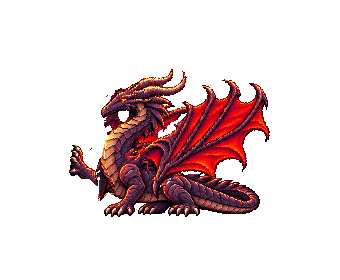
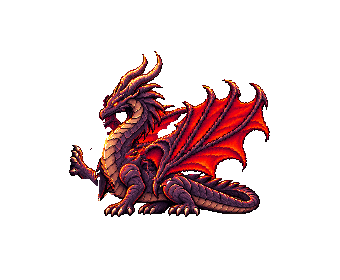
WIP: T213 R1 刚性头＋口腔楔形，4_0/13_0 样稿
病根：头颈链分界横穿脸部，头一相对脖子转脸就折成钩。加 head_cut／_head_rigid、mouth 楔形层；
未改的帧烘焙逐像素不变。其余 7 帧等 Kyo 看样。

执行者: cc
核查: 待审查

Changed region(s): [[0.2941, 0.1714, 0.5588, 0.4857]]

diff --git a/03_再刷重制_Godot/07_开发环境/美术工具/mira_rig/bake.py b/03_再刷重制_Godot/07_开发环境/美术工具/mira_rig/bake.py
@@ -99,13 +99,16 @@ def world(R, pose):
     for n in B: get(n)
     out = {n: full[n] for n in B}
     out['_local'] = {n: mat(pose.get(n, {}).get('rot', 0), B[n]['pivot']) for n in B}  # 只含本骨骼自身转角
+    out['_cut'] = R.get('head_cut') if pose.get('_head_rigid') else None  # T213 R1：整颗头刚性挂 head 骨
     return out
 
 def smooth(t):
     t = np.clip(t, 0, 1); return t * t * (3 - 2 * t)
 
-def weights(layer, px, py):
-    """返回 {bone: 权重数组}，px/py 为原图连续坐标。"""
+def weights(layer, px, py, cut=None):
+    """返回 {bone: 权重数组}，px/py 为原图连续坐标。
+    cut（rig.json 的 head_cut，姿势写 _head_rigid 才启用）：切线以上整颗头（吻、下颚、腮、角）权重全给 head，
+    切线以下 blend 像素内渐变回链式权重。原链式权重的分界横穿脸部（吻部一半挂 n3），头一相对脖子转，脸就被折成钩。"""
     kind = layer['skin']
     if kind == 'rigid':
         return {layer['bone']: np.ones_like(px)}
@@ -133,11 +136,19 @@ def weights(layer, px, py):
             lo = S[k - 1] if k >= 1 else np.ones(px.shape)
             hi = S[k] if k < len(S) else np.zeros(px.shape)
             W[bones[k]] = W.get(bones[k], 0) + lo - hi
+        if cut and 'head' in W:
+            xs, ys = np.array(cut['line'], float).T
+            yb = np.interp(px, xs, ys)
+            s = smooth((yb + cut['blend'] - py) / cut['blend'])
+            wh = np.maximum(W['head'], s); rest = 1 - W['head']
+            f = np.where(rest > 1e-9, (1 - wh) / np.where(rest > 1e-9, rest, 1), 0)
+            for k in W:
+                W[k] = wh if k == 'head' else W[k] * f
         return W
     raise ValueError(kind)
 
 def forward(layer, Mw, px, py):
-    W = weights(layer, px, py)
+    W = weights(layer, px, py, Mw.get('_cut'))
     if layer.get('local'):  # 先绕自身铰点转（如下颚开合），再按 rest 位置的链式权重跟脖子/头走，和头部像素严丝合缝
         Lm = Mw['_local'][layer['local']]
         px, py = Lm[0, 0] * px + Lm[0, 1] * py + Lm[0, 2], Lm[1, 0] * px + Lm[1, 1] * py + Lm[1, 2]
@@ -242,16 +253,42 @@ def fx_overlay(R, pose, shape):
         out[Y[ok], X[ok]] = im[ys[ok], xs[ok]]
     return out
 
+def mouth_wedge(R, wg, jaw_rot, shape):
+    """口腔：上颚线 tip→hinge 与「下颚上沿绕铰点转 jaw_rot 后」围成的楔形（rest 坐标）。
+    按到上颚线的距离分层（色取自 1_0），上獠牙从上颚线往下长。原做法是把下颚原位整块补红，
+    张开后像一块红砖、外缘还描黑框（Kyo R1 4_0 头部异常之一）。"""
+    h, w = shape[:2]; a = np.zeros(shape, np.uint8)
+    (ux, uy), (hx, hy) = wg['upper']; lx, ly = wg['lower_tip']
+    M = mat(jaw_rot, R['bones']['jaw']['pivot']); Lx, Ly = (M @ np.array([lx, ly, 1.0]))[:2]
+    tri = [(ux, uy), (hx, hy), (Lx, Ly)]
+    m = Image.new('L', (w, h), 0); ImageDraw.Draw(m).polygon(tri, fill=1); m = np.array(m) > 0
+    L2 = math.hypot(hx - ux, hy - uy); nx, ny = -(hy - uy) / L2, (hx - ux) / L2
+    if ny < 0: nx, ny = -nx, -ny
+    fang = {fx: fl for fx, fl in wg.get('fangs', [])}
+    for y, x in zip(*np.nonzero(m)):
+        d = max((x + 0.5 - ux) * nx + (y + 0.5 - uy) * ny, 0)
+        if x in fang and d < fang[x]: c = wg['teeth']
+        else: band = wg['bands']; c = band[min(int(d / wg.get('band_w', 2)), len(band) - 1)]
+        a[y, x] = list(c) + [255]
+    return a
+
 def bake(R, src, pose, fills=None):
     L = label_map(R, src); Mw = world(R, pose)
     out = np.zeros_like(src)
     for layer in R['layers']:
+        if 'wedge' in layer:  # 口腔楔形（T213 R1）：只在下颚张开时画，画在头颈链底下
+            if not pose.get(layer['when'], {}).get('rot'): continue
+            a = mouth_wedge(R, layer['wedge'], pose[layer['when']]['rot'], src.shape)
+            out = comp(out, render_layer(layer, upscale(a), Mw, src.shape)); continue
         if 'pixels' in layer:  # 补画小件（如下牙）：只在 when 骨骼转动时画，rest 姿势不出现
             if not pose.get(layer['when'], {}).get('rot'): continue
             a = np.zeros_like(src)
             for x, y, c in layer['pixels']: a[y, x] = list(c) + [255]
             out = comp(out, render_layer(layer, upscale(a), Mw, src.shape)); continue
         fl = (fills or {}).get(layer['name'])
+        mo = layer.get('fill', {}).get('mouth')
+        if mo and pose.get(mo.get('off_when', ''), {}).get('rot'):  # 张嘴帧改由 mouth 楔形层画口腔，不再整块补红
+            fl = make_fill(src, L, {**layer, 'fill': {k: v for k, v in layer['fill'].items() if k != 'mouth'}})
         if fl is None: fl = make_fill(src, L, layer)
         a = layer_src(src, L, layer['parts'], fl)
         up = upscale(a)
@@ -304,7 +341,7 @@ def cleanup(a, ref_holes=()):
 def export_parts(R, src, outdir):
     L = label_map(R, src); outdir = Path(outdir); outdir.mkdir(parents=True, exist_ok=True)
     names = []
-    for layer in [l for l in R['layers'] if 'pixels' not in l]:  # 补画小件（下牙）不属于 1_0 拆件
+    for layer in [l for l in R['layers'] if 'pixels' not in l and 'wedge' not in l]:  # 补画小件（下牙、口腔楔形）不属于 1_0 拆件
         i = len(names)
         a = layer_src(src, L, layer['parts'], make_fill(src, L, layer))
         fn = f"{i}_{layer['name']}.png"; Image.fromarray(a).save(outdir / fn); names.append(fn)

diff --git a/00_项目管理/交付/luiluu_t213.md b/00_项目管理/交付/luiluu_t213.md
@@ -61,3 +61,47 @@
 ## 还剩
 
 - 无。
+
+## R1 返修（Kyo 11-18「黑龙4-0 5-0 7-1-2 10-1-2 13-0 16-0 17-0头部异常」）
+
+执行：cc（Opus＋medium，P8），第 3 会话。先交 4_0、13_0 两帧样稿，Kyo 点头再改其余 7 帧。
+
+### 诊断（一帧一行）
+
+共同病根：头颈链蒙皮的分界横穿脸部——眼、角挂 head 骨，吻部、下颚、腮挂 n3。头相对脖子一转，上半张脸和吻部分家，脸被折成钩子、角躺平。下表「相对转」＝head 骨相对 n3 的转角。
+
+| 帧 | 相对转 | 哪里异常 |
+|---|---|---|
+| 4_0 吼 | +28° | 上半脸转上去、吻部留在原处，脸成平头；角往后躺平；张嘴是整块红砖＋左缘黑框，不像嘴 |
+| 5_0 低伏 | +55° | 吻部随脖子朝下折进脖子里，脸看不出，头像一个钩／兜帽；角朝前盖住脸 |
+| 7_1 挥爪 | +55° | 同 5_0，头成钩状，脸读不出 |
+| 7_2 扑咬 | +75° | 钩状更重；嘴是红砖块＋碎白牙，下颚和吻部接不上 |
+| 10_1 蓄火 | +12°（加张嘴 −32°） | 变形轻，主要是嘴：整块红补色＋火光，嘴型是方块 |
+| 10_2 喷火 | +88° | 最重：脸整个折进去，只剩角和一团红嘴，火从一团暗色里出来 |
+| 13_0 抬爪 | +20° | 上半脸往上掰、吻部被压扁，头比待机短一截；角往后躺 |
+| 16_0 睡 | +55° | 钩状，脸折进脖子；角竖着朝前 |
+| 17_0 倒地 | +85° | 钩状最重之一，头像一团角 |
+
+另：1_0 的头是偏正面、往左下看，就算整颗头刚性转，转到 30° 角也会躺平（试过 4_0 刚性 +30°），所以头本身只能少转。
+
+### 改法
+
+- 烘焙器加「刚性头」（`rig.json` 的 `head_cut`，姿势写 `_head_rigid`）：切线以上整颗头权重全给 head，切线下 8 像素渐变回脖子。头的世界转角压到约 ±10°，朝向、高度用脖子骨链和 offset 摆。
+- 张嘴改「口腔楔形」：只画上颚线和转开后的下颚上沿之间的三角，不再整块补红、不描黑框。颜色和獠牙都取自 1_0，没有新补画范围（楔形只用原来口腔那 4 层红＋獠牙白，位置都在原下颚多边形里）。
+- 没用 `_head_rigid` 的姿势完全不变：重烘焙后 0_0～0_3、3_0、7_0、7_3、10_0、10_3、14_0、15_0 以及还没改的 5_0、7_1、16_0、17_0 都和工程图逐像素一致。（10_1、7_2、10_2 用到张嘴，rig.json 现在烘出来会是新嘴，但工程图这轮没换。）
+
+### R1 样稿（`00_项目管理/归档/交付截图/luiluu_t213/R1样稿/`）
+
+- 4_0：头总转角 +30° → +10°，脖子整体抬高 18 像素，下颚张 40°。头形同待机，嘴是楔形。
+- 13_0：头总转角 +33° → +5°（头就是待机头，只跟脖子抬高 10 像素）。
+- 每帧两张：`<帧>_原稿_上一版_新版_1比1.png`；`<帧>_头部_对1_0_1比1.png`（待机头｜上一版｜新版，另有 `_x3` 辅助看）。
+- 工程图 4_0、13_0 已换成新版（上一版在 git 6a0ebf86a 里）。
+
+### 验证
+
+- `check.py` 退出 0，102 项全通过。
+- Godot 专项本轮没跑（只换了两张同尺寸图，等其余 7 帧改完一起跑）。
+
+### 还剩
+
+- 等 Kyo 看 4_0、13_0；点头后改 5_0、7_1、7_2、10_1、10_2、16_0、17_0。预计风险：5_0、7_2、10_2、16_0、17_0 原稿是侧脸平伸，头不转以后更不像原稿那种侧脸，只能是「待机头低下来」。

diff --git a/03_再刷重制_Godot/07_开发环境/美术工具/mira_rig/README.md b/03_再刷重制_Godot/07_开发环境/美术工具/mira_rig/README.md
@@ -44,6 +44,13 @@ python check.py                                              # 自检
 - **下牙 `jawteeth`**：5 个像素（x=95、99、103，y=119～120，同上牙色），跟下颚走，**只在姿势里 jaw 有转角时才画**（rest 不出现，不影响拼回）。
 - 用到下颚的帧：4_0（吼）、7_2（扑咬）、10_1（嘴里蓄火）、10_2（喷火）。
 
+## 刚性头与口腔楔形（T213 R1，Kyo 11-18 审样九帧头部异常）
+
+- **病根**：头颈链的链式权重分界是横的，穿过脸——眼睛、角挂 `head`，吻部、下颚、腮挂 `n3`。头一相对 n3 转，脸就被折成钩子（转角越大越严重：10_2 相对转 88°、17_0 85°、7_2 75°）。
+- **刚性头**：`rig.json` 的 `head_cut`（切线 (84,136)→(108,136)→(116,132)→(164,132)，blend 8）。姿势写 `"_head_rigid": true` 时，切线以上整颗头权重全给 `head`，切线下 8 像素内渐变回链式权重。没写的姿势照旧（已通过的 12 帧烘焙结果逐像素不变）。
+- **头少转**：1_0 的头是偏正面往左下看的，就算刚性转，转 30° 角也会躺平、脸变成平头（试过 4_0 +30°）。头的世界转角（n0～head 之和）控制在 ±10° 左右，朝向和高度用脖子和 offset 摆。
+- **口腔楔形**（图层 `mouth`，`wedge`）：张嘴帧不再把下颚原位整块补红（张开后像一块红砖、外缘描黑框），改成只画上颚线 (89,120.5)→铰点 (110,122) 与「下颚上沿尖 (89,121.5) 绕铰点转 jaw 角后」围成的三角，分层色和上獠牙同原来；画在头颈链底下。头颈链 `fill.mouth` 加了 `off_when: "jaw"`，张嘴帧关掉，不张嘴的帧不受影响。
+
 ## 摆下一个动作
 
 0. 特效：姿势里 `_fx` 列表从原稿同号帧按多边形＋颜色范围抠特效叠在最上层，`offset` 平移对到新的嘴／爪（10_2 的火、10_1 的嘴里火光、7_1 的火弧、10_0 脚边火、15_0 紫烟）。注意颜色上限别把白芯滤掉（10_2 曾因 B≤120 把火芯滤成一道黑缝）。
